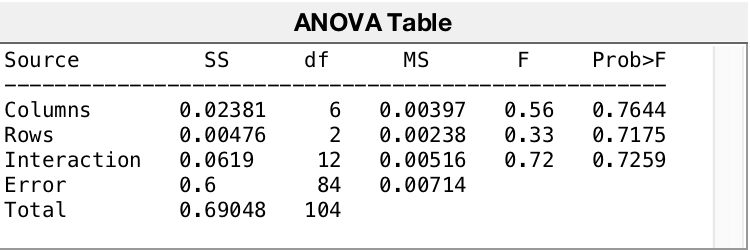
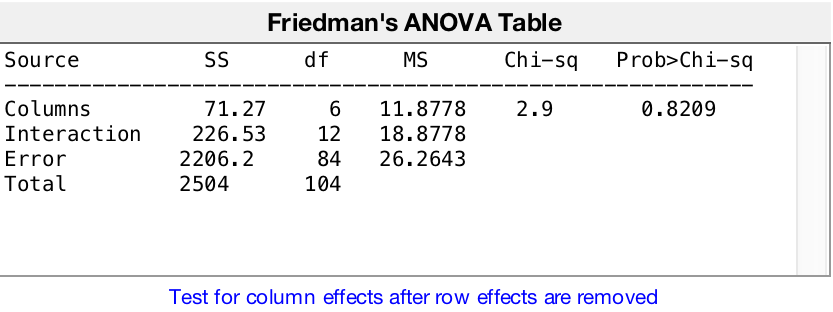
Friedman

diff --git a/Software/SpecAutom/perfAnyl.m b/Software/SpecAutom/perfAnyl.m
@@ -41,7 +41,7 @@ end
 
 %% 2 Way Anova
 close all;
-[H1, T1, S1] = anova2(P(:,:,1),5);
-set(gcf, 'rend','painters','pos',[10 10 360 120]); print -dpng Anv1
-[H2, T2, S2] = anova2(P(:,:,2),5);
-set(gcf, 'rend','painters','pos',[10 10 360 120]); print -dpng Anv2
+[~, T1, S1] = friedman(P(:,:,1),5);
+set(gcf, 'rend','painters','pos',[10 10 400 150]); print -dpng Anv1
+[~, T2, S2] = friedman(P(:,:,2),5);
+set(gcf, 'rend','painters','pos',[10 10 400 150]); print -dpng Anv2
